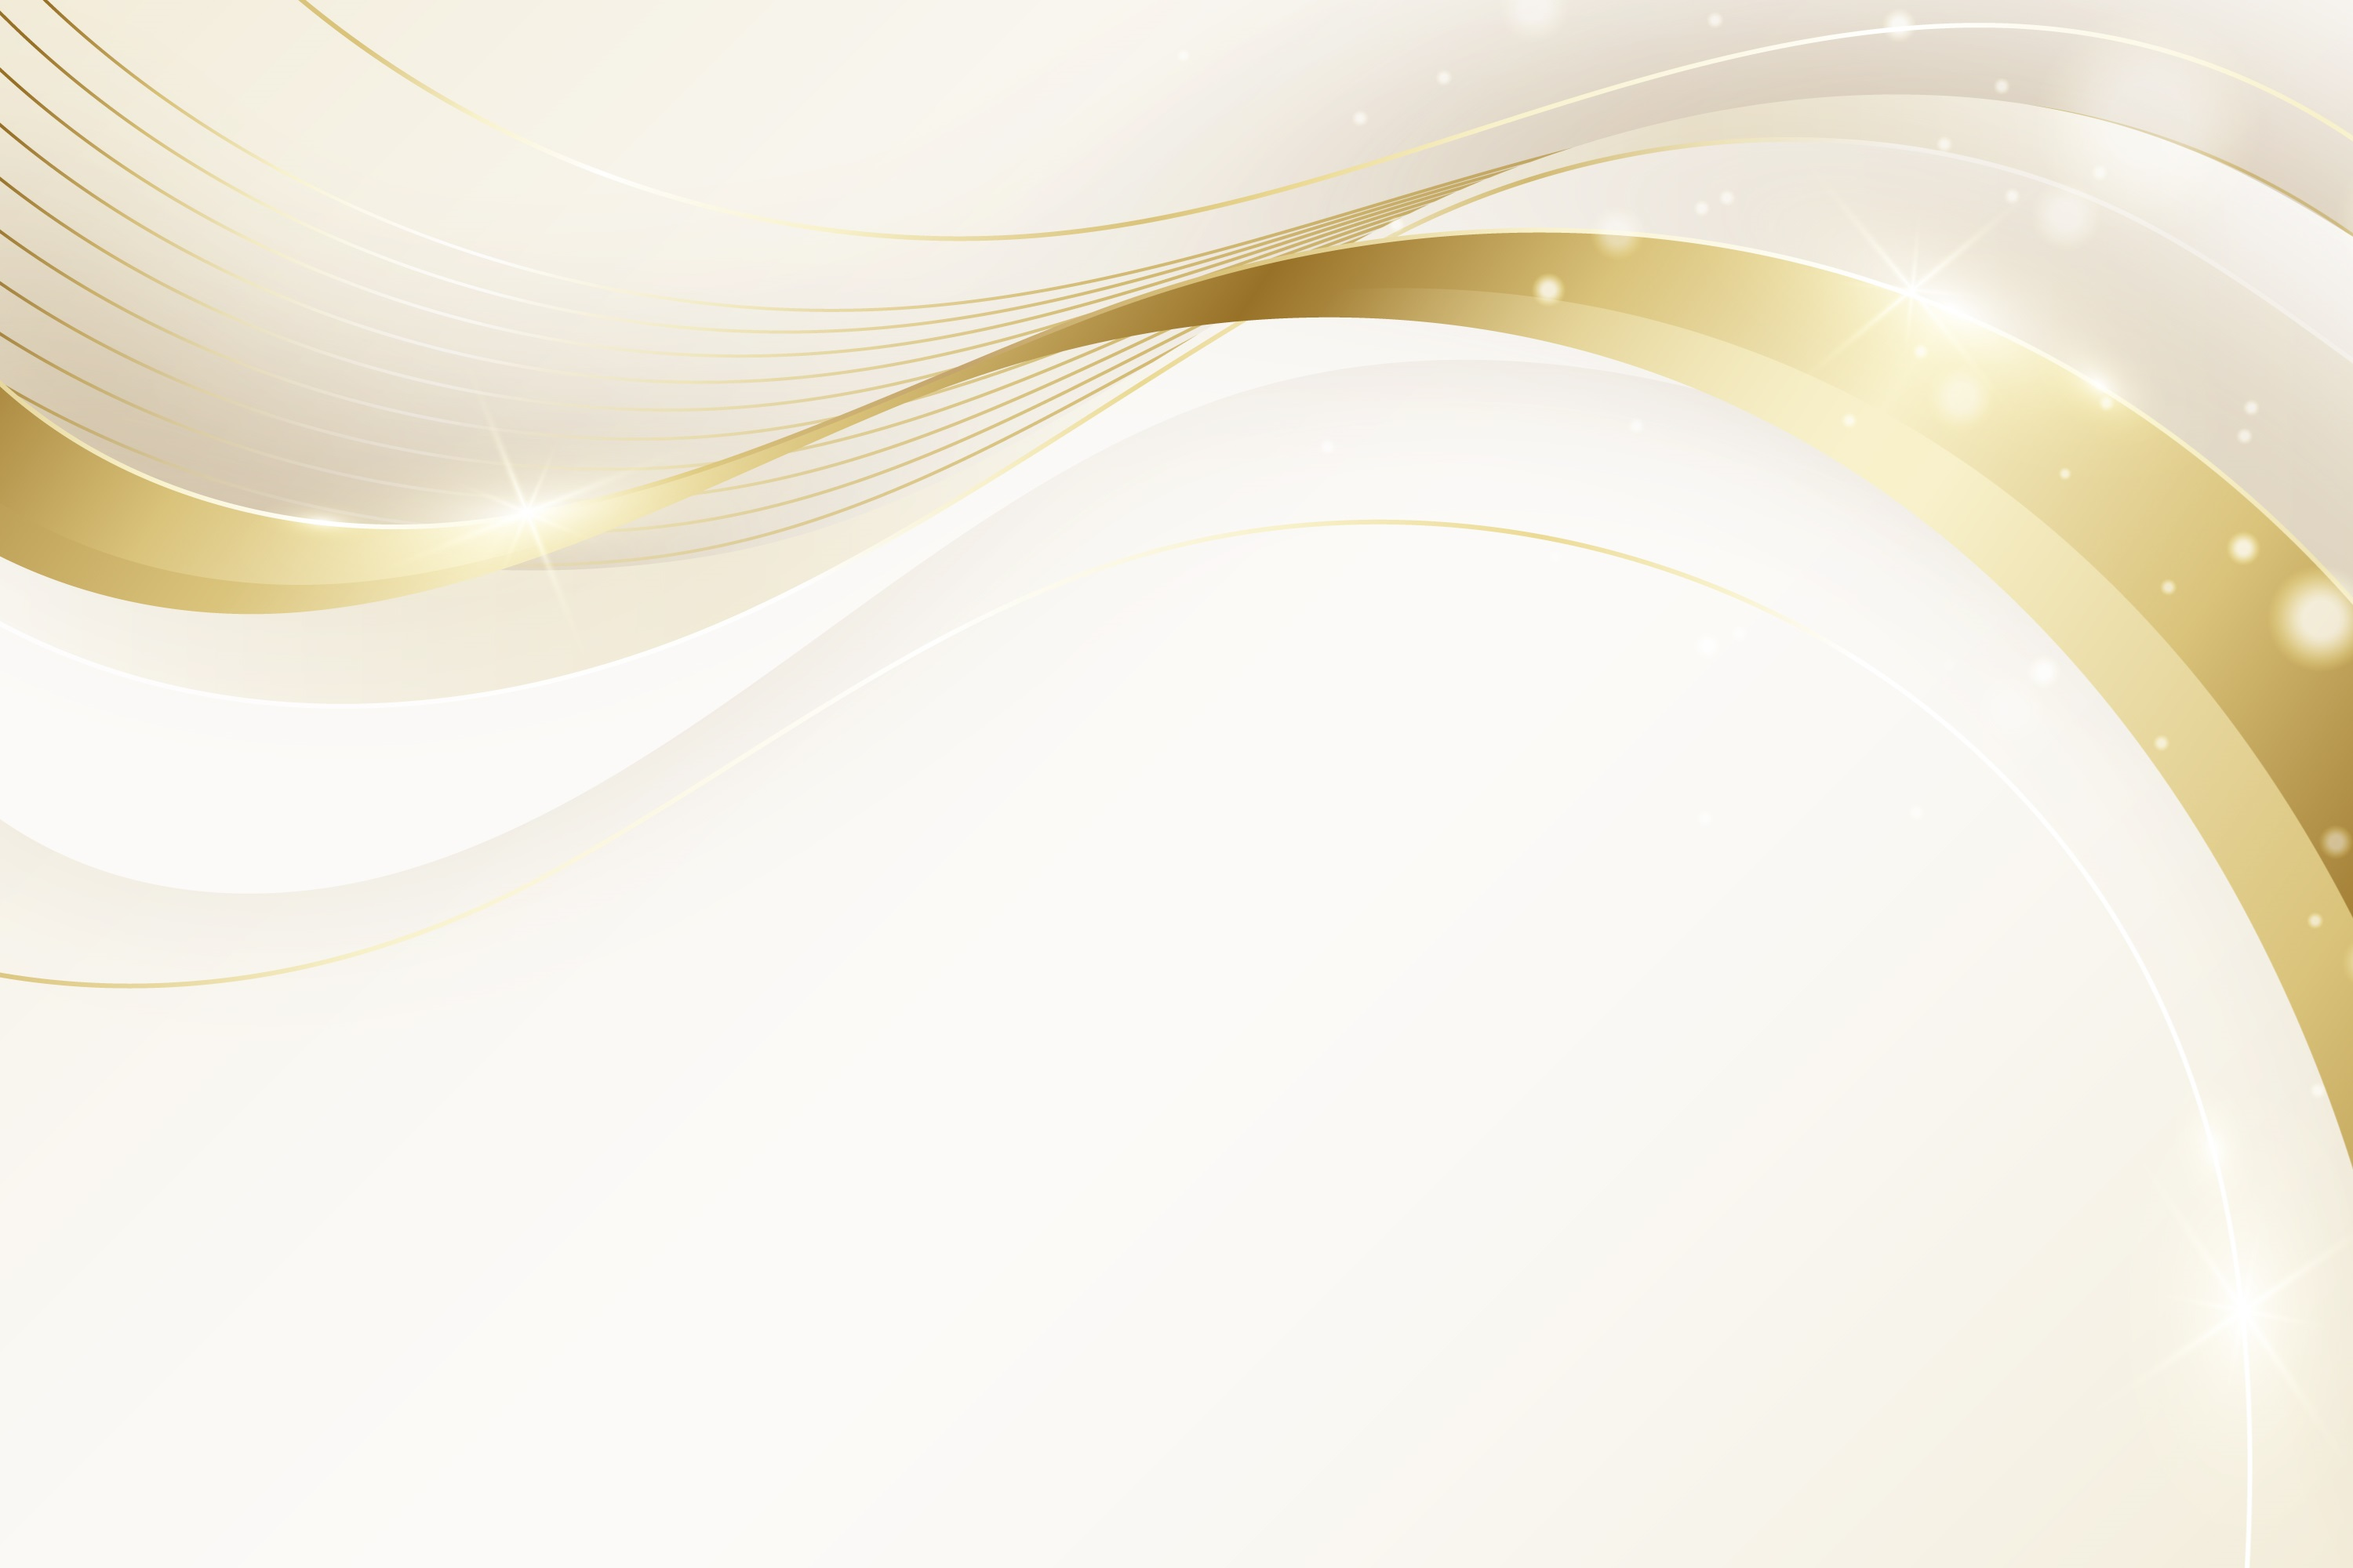
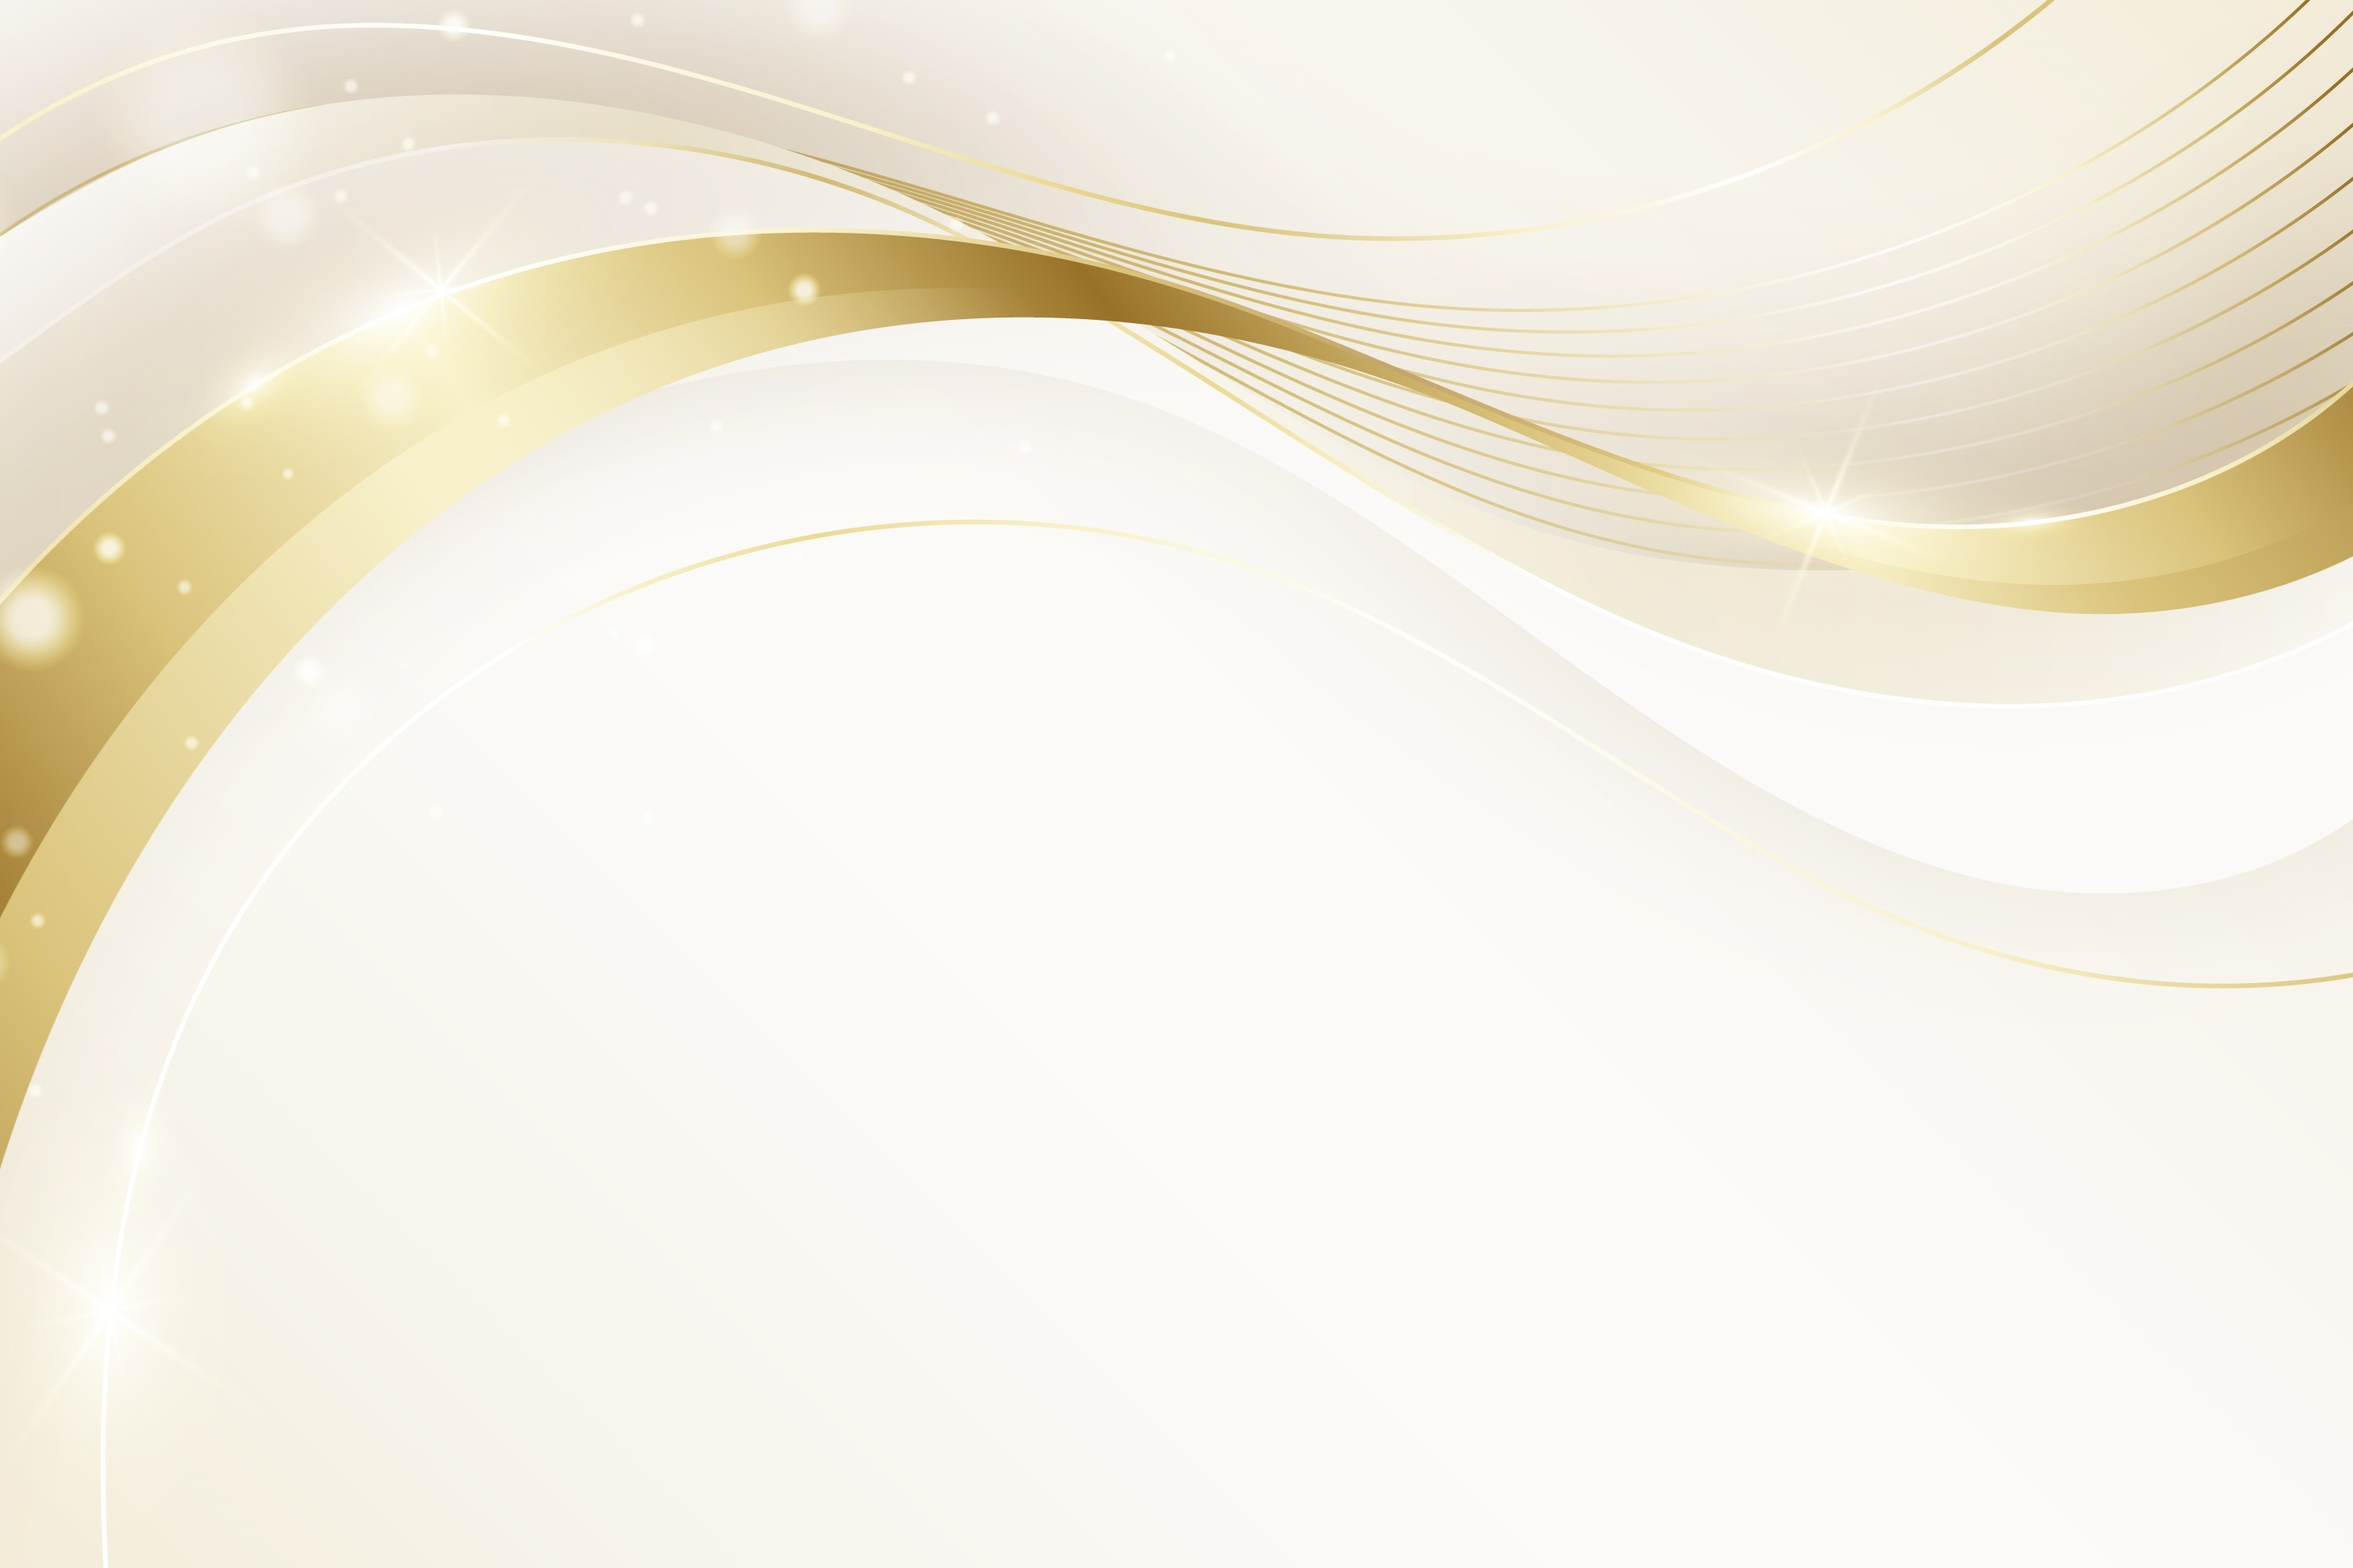
using new backgrounds, changing texts, modified navbar

diff --git a/src/app/navbar/navbar.html b/src/app/navbar/navbar.html
@@ -60,13 +60,6 @@
     <div class="md:hidden bg-white/95 backdrop-blur-xl border-t border-amber-50">
       <div class="flex flex-col p-8 gap-6 text-center">
 
-        <a
-          (click)="closeMenu()"
-          href="https://app.wellmify.com/pl/szrensk/luna-kosmetologia"
-          class="tracking-widest bg-accent text-white py-4 rounded-full font-bold">
-          Umów wizytę
-        </a>
-
         <a (click)="closeMenu()" href="#about"
            class="tracking-widest text-sm text-gray-700">O gabinecie</a>
         <a (click)="closeMenu()" href="#services"
@@ -77,6 +70,15 @@
            class="tracking-widest text-sm text-gray-700">Lokalizacja</a>
         <a (click)="closeMenu()" href="#footer"
            class="tracking-widest text-sm text-gray-700">Kontakt</a>
+
+        @if (this.currentSectionId !== 'home') {
+          <a
+            (click)="closeMenu()"
+            href="https://app.wellmify.com/pl/szrensk/luna-kosmetologia"
+            class="tracking-widest bg-accent text-white py-4 rounded-full font-bold">
+            Umów wizytę
+          </a>
+        }
 
       </div>
     </div>

diff --git a/src/app/navbar/navbar.ts b/src/app/navbar/navbar.ts
@@ -1,4 +1,4 @@
-import {Component} from '@angular/core';
+import {Component, HostListener} from '@angular/core';
 
 @Component({
   selector: 'app-navbar',
@@ -8,6 +8,8 @@ import {Component} from '@angular/core';
 })
 export class Navbar {
 
+  currentSectionId = 'home';
+
   menuOpen = false;
 
   toggleMenu() {
@@ -16,6 +18,24 @@ export class Navbar {
 
   closeMenu() {
     this.menuOpen = false;
+  }
+
+  @HostListener('window:scroll', [])
+  onWindowScroll() {
+    const sections = ['home', 'about', 'services', 'gallery', 'localization', 'footer'];
+
+    for (const id of sections) {
+      const el = document.getElementById(id);
+      if (!el) continue;
+
+      const rect = el.getBoundingClientRect();
+      const inView = rect.top <= 150 && rect.bottom >= 150;
+
+      if (inView) {
+        this.currentSectionId = id;
+        break;
+      }
+    }
   }
 
 }
